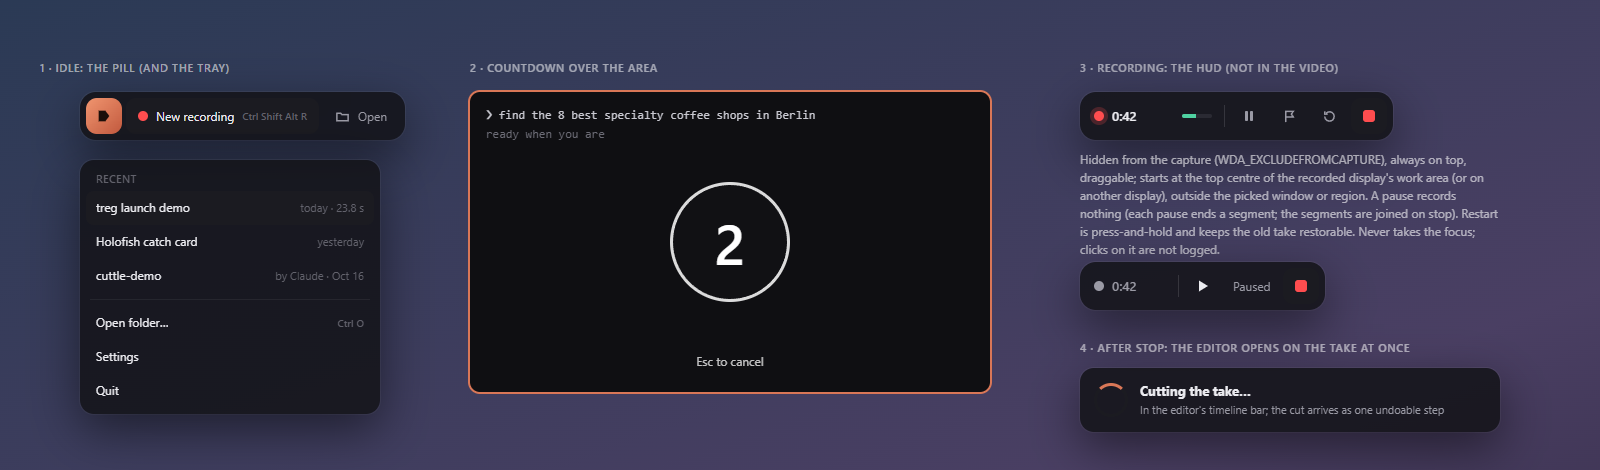
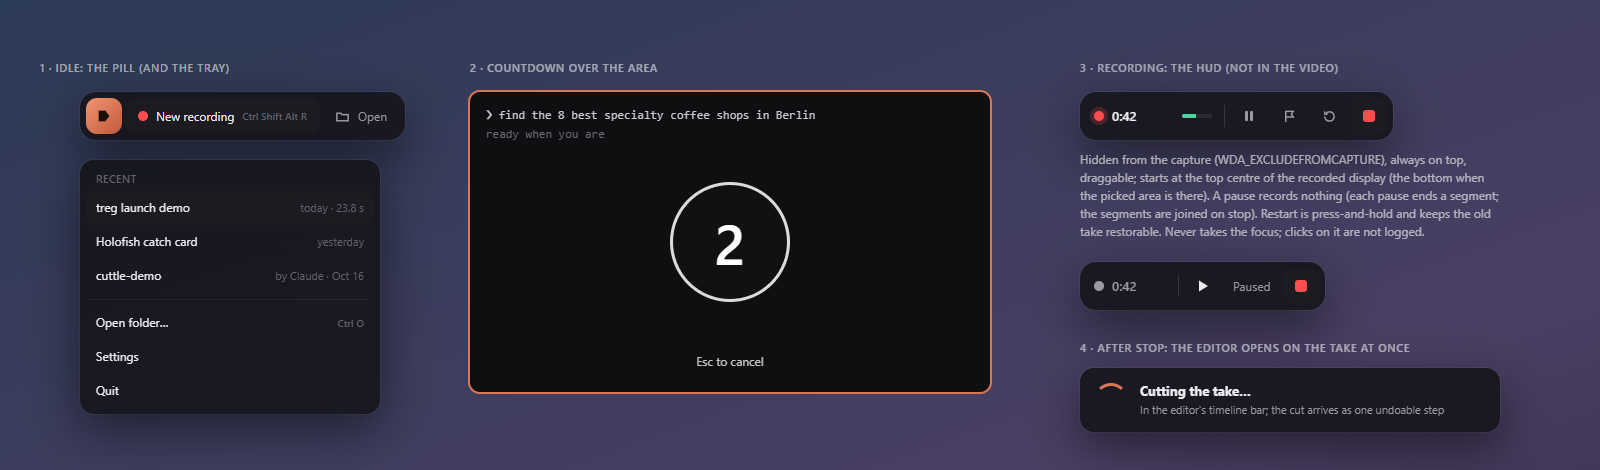
desktop: the HUD stays on the recorded display, also when the whole display is recorded
A whole-display take put the HUD on another display, where nobody saw it: the person looks at
what they record. It now stays on the recorded display: the top centre, else the bottom centre
when the top is in the target, else the top centre over the target. Content protection keeps it
out of the capture (WDA_EXCLUDEFROMCAPTURE, measured with ddagrab in the P2 spike), and it can
still be dragged.

Changed region(s): [[0.6562, 0.3574, 0.9375, 0.566]]

diff --git a/apps/desktop/src/shared/recording.ts b/apps/desktop/src/shared/recording.ts
@@ -139,9 +139,10 @@ export function stopOptionsFor(choices: RecordChoices): StopOptions {
 const overlaps = (a: Rect, b: Rect) => a.x < b.x + b.width && b.x < a.x + a.width && a.y < b.y + b.height && b.y < a.y + a.height;
 
 /**
- * Where the HUD goes: outside what is recorded when it fits. The top centre of the recorded
- * display's work area, else its bottom centre, else the top centre of another display; the top
- * centre when the target covers them all (the HUD is never in the video anyway). DIP.
+ * Where the HUD goes: on the recorded display, where the person looks (on another display it went
+ * unseen). The top centre of its work area, else the bottom centre when the top is in what is
+ * recorded; the top centre when the target covers both (the HUD is never in the video: content
+ * protection keeps it out of the capture, see the P2 spike). DIP.
  */
 export function hudPosition(displays: readonly Pick<PickerDisplay, 'id' | 'workArea'>[], recorded: number, target: Rect, size: { width: number; height: number }): { x: number; y: number } {
   const at = (area: Rect, place: 'top' | 'bottom'): Rect => ({
@@ -150,7 +151,7 @@ export function hudPosition(displays: readonly Pick<PickerDisplay, 'id' | 'workA
     ...size,
   });
   const own = displays.find((display) => display.id === recorded) ?? displays[0]!;
-  const candidates = [at(own.workArea, 'top'), at(own.workArea, 'bottom'), ...displays.filter((display) => display !== own).map((display) => at(display.workArea, 'top'))];
+  const candidates = [at(own.workArea, 'top'), at(own.workArea, 'bottom')];
   const free = candidates.find((place) => !overlaps(place, target)) ?? candidates[0]!;
   return { x: free.x, y: free.y };
 }

diff --git a/apps/desktop/test/recording.test.ts b/apps/desktop/test/recording.test.ts
@@ -107,14 +107,16 @@ describe('from a pick to the recorder', () => {
     expect(stopOptionsFor({ stop: 'none' })).toEqual({});
   });
 
-  it('puts the HUD outside what is recorded: the top centre, else the bottom, else another display', () => {
+  it('puts the HUD on the recorded display, where the person looks: the top centre, else the bottom, outside what is recorded when it fits', () => {
     const size = { width: 360, height: 60 };
     const displays = [primary, second];
     expect(hudPosition(displays, 2, { x: 2300, y: 600, width: 400, height: 300 }, size)).toEqual({ x: 2048 + 780, y: 419 });
     // a window at the top of the display: the bottom
     expect(hudPosition(displays, 1, { x: 700, y: 0, width: 600, height: 400 }, size)).toEqual({ x: 844, y: 1104 - 72 });
-    // the whole display: another one
-    expect(hudPosition(displays, 1, primary.bounds, size)).toEqual({ x: 2048 + 780, y: 419 });
+    // the whole display, with another one beside it: still the top of the recorded one (on another
+    // display the HUD went unseen; it is never in the video anyway)
+    expect(hudPosition(displays, 1, primary.bounds, size)).toEqual({ x: 844, y: 12 });
+    expect(hudPosition(displays, 2, second.bounds, size)).toEqual({ x: 2048 + 780, y: 419 });
     // one display, all of it recorded: the top
     expect(hudPosition([primary], 1, primary.bounds, size)).toEqual({ x: 844, y: 12 });
   });

diff --git a/docs/design/desktop/launcher-and-hud.html b/docs/design/desktop/launcher-and-hud.html
@@ -80,7 +80,7 @@
   <div class="b" title="Restart"><svg width="15" height="15" viewBox="0 0 16 16" fill="none" stroke="currentColor" stroke-width="1.6"><path d="M3 8a5 5 0 1 0 1.5-3.6M3 2.5v3h3"/></svg></div>
   <div class="b stop" title="Stop"><i></i></div>
 </div>
-<div class="note" style="left:1080px;top:150px;width:420px">Hidden from the capture (WDA_EXCLUDEFROMCAPTURE), always on top, draggable; starts at the top centre of the recorded display's work area (or on another display), outside the picked window or region. A pause records nothing (each pause ends a segment; the segments are joined on stop). Restart is press-and-hold and keeps the old take restorable. Never takes the focus; clicks on it are not logged.</div>
+<div class="note" style="left:1080px;top:150px;width:420px">Hidden from the capture (WDA_EXCLUDEFROMCAPTURE), always on top, draggable; starts at the top centre of the recorded display (the bottom when the picked area is there). A pause records nothing (each pause ends a segment; the segments are joined on stop). Restart is press-and-hold and keeps the old take restorable. Never takes the focus; clicks on it are not logged.</div>
 <div class="hud paused" style="top:262px">
   <div class="dot"></div><div class="time" style="color:var(--muted)">0:42</div>
   <div class="sep"></div>

diff --git a/docs/superpowers/specs/2026-10-17-cuttle-desktop-design.md b/docs/superpowers/specs/2026-10-17-cuttle-desktop-design.md
@@ -165,9 +165,11 @@ idle (pill, tray) ──Ctrl+Shift+Alt+R──► picker ──Enter──► co
 - **The recorder host.** `record()` runs in a utility process (koffi and uiohook-napi work there,
   spike). If it dies, the main process kills the ffmpeg processes it started (their process ids are
   reported), so no capture outlives it.
-- **HUD placement.** Top centre of the work area (the taskbar excluded) of the recorded display, or on
-  another display when there is one; outside the target when it fits; draggable. Its transparent
-  margin passes clicks through.
+- **HUD placement.** On the recorded display, where the person looks: the top centre of its work
+  area (the taskbar excluded), else the bottom centre when the top is in the target, else the top
+  centre over the target (content protection keeps it out of the video); draggable. Its transparent
+  margin passes clicks through. (It once went to another display for a whole-display take, where
+  nobody saw it.)
 - **Dead zones.** The recorder takes rectangles whose input is not logged (the HUD's, updated when it
   is dragged) and logs nothing after a stop was requested, so no take shows the pointer travelling to
   the HUD, a click ripple on Stop, or `suggest` keeping a second for that click.
